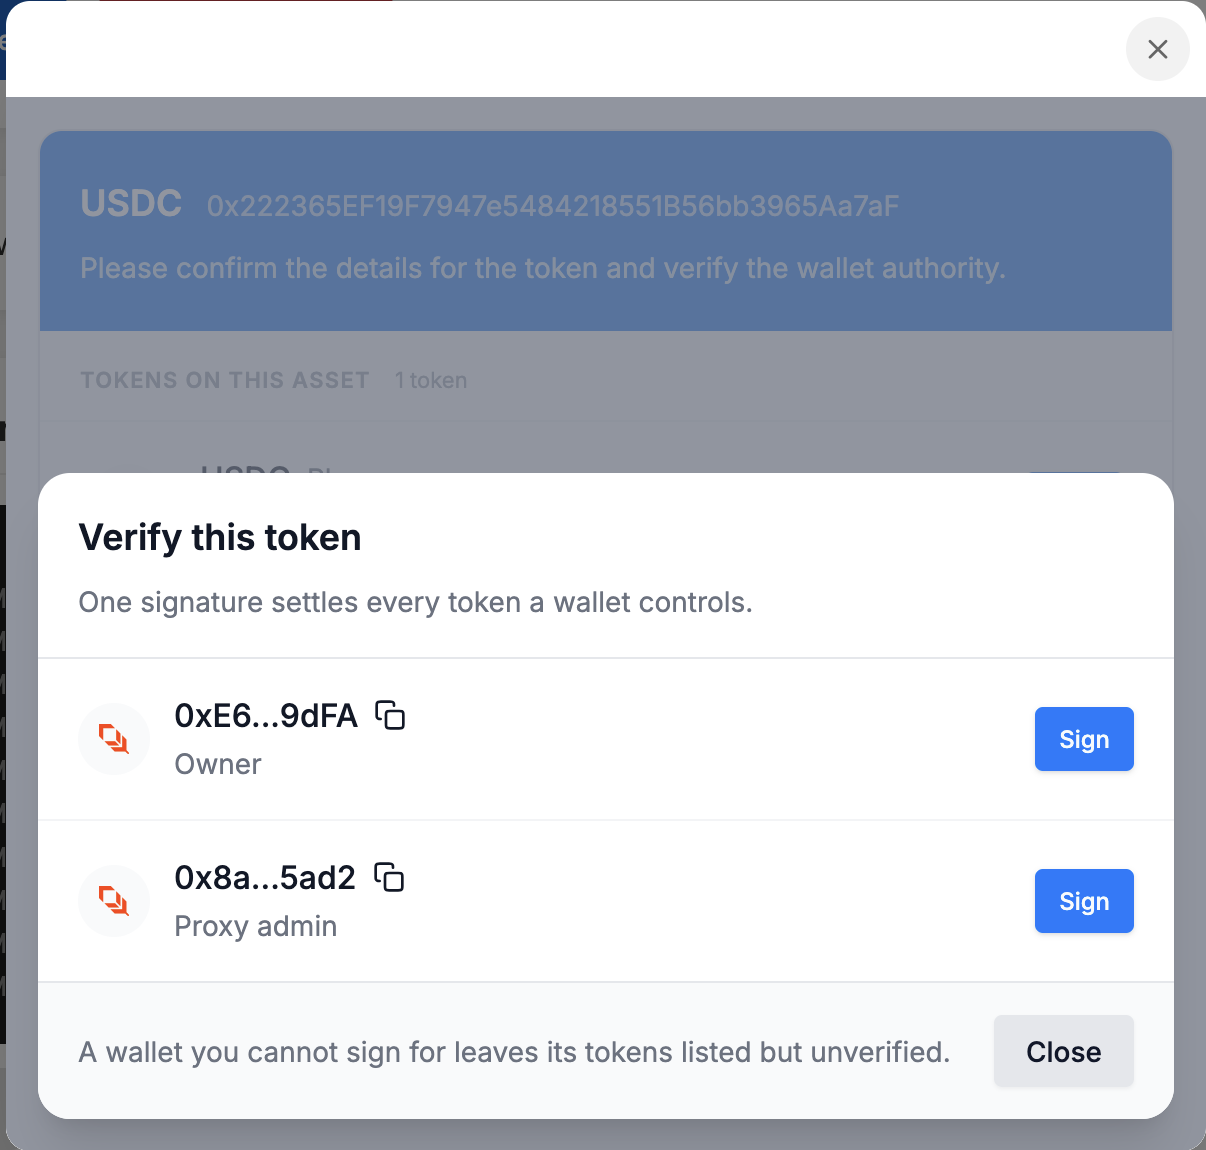
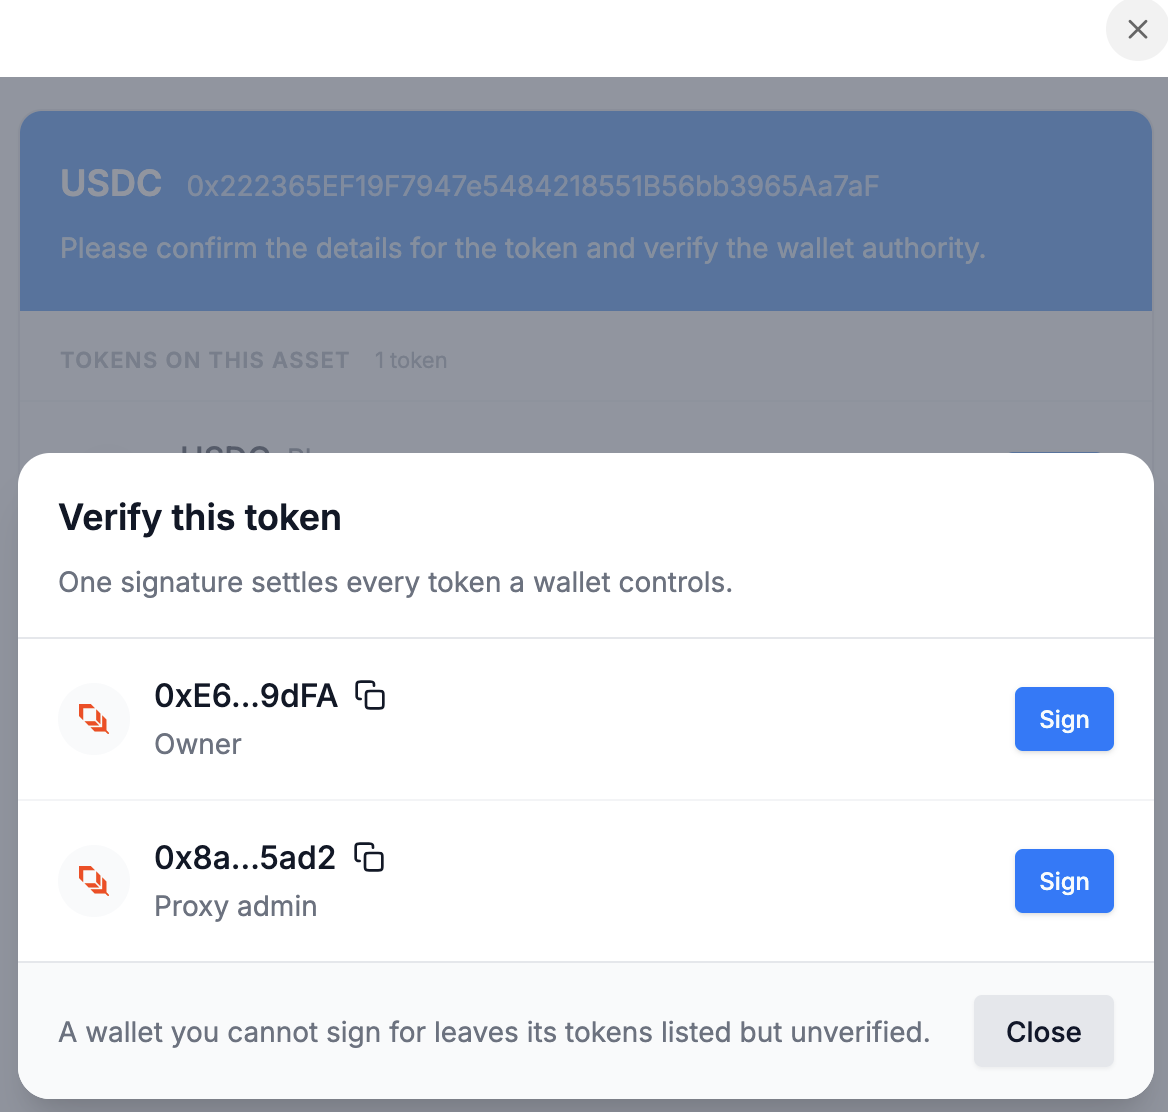
docs: crop screenshot edges

diff --git a/docs/verification.html b/docs/verification.html
@@ -34,14 +34,14 @@
       </ol>
 
       <figure>
-        <img src="images/verify-asset.png" width="1206" height="1152" alt="The widget's 'Verify a new asset' screen, with a token address pasted in and Plume detected as the chain.">
+        <img src="images/verify-asset.png" width="1170" height="636" alt="The widget's 'Verify a new asset' screen, with a token address pasted in and Plume detected as the chain.">
         <figcaption>Adding an asset: the user pastes a token address and the chain is detected automatically.</figcaption>
       </figure>
 
       <p>One signature covers every token a wallet controls, even across assets, so a user with several tokens behind the same owner wallet only signs once. If the user can't sign for one of the wallets, its tokens stay listed but unverified.</p>
 
       <figure>
-        <img src="images/sign-wallets.png" width="1206" height="1150" alt="The 'Verify this token' dialog listing two wallets, an owner and a proxy admin, each with a Sign button.">
+        <img src="images/sign-wallets.png" width="1168" height="1112" alt="The 'Verify this token' dialog listing two wallets, an owner and a proxy admin, each with a Sign button.">
         <figcaption>Verifying wallet authority: one row per wallet, each signed separately.</figcaption>
       </figure>
 
